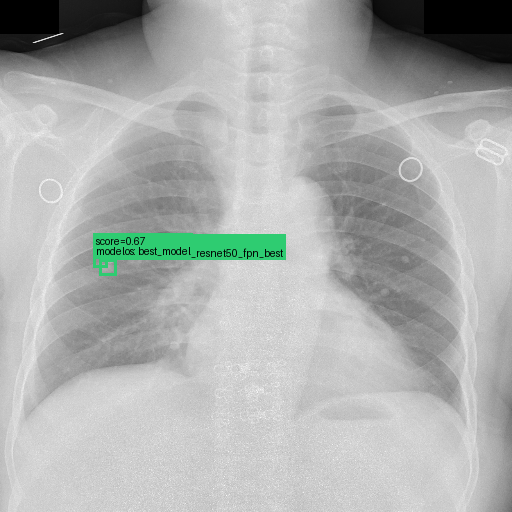
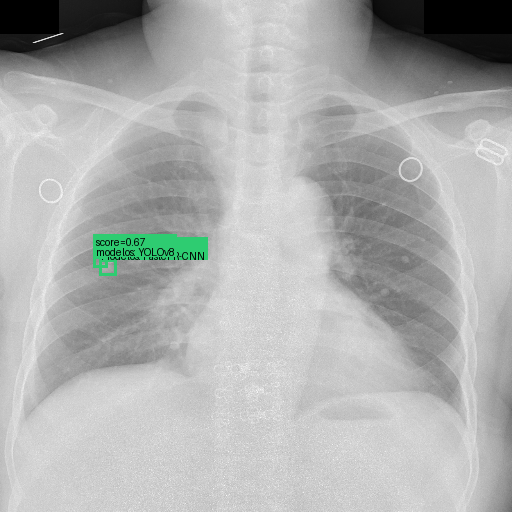
Fixing names in visualization folder

Changed region(s): [[0.1875, 0.4375, 0.5625, 0.5312]]

diff --git a/lung_nodule_agent/models.py b/lung_nodule_agent/models.py
@@ -38,12 +38,19 @@ class DetectionResult:
 class BaseModelAdapter:
     """Classe base para adaptadores de modelos de detecção."""
 
-    def __init__(self, model_path: str, confidence_threshold: float = 0.25, device: Optional[str] = None):
+    def __init__(
+        self,
+        model_path: str,
+        confidence_threshold: float = 0.25,
+        device: Optional[str] = None,
+        display_name: Optional[str] = None,
+    ):
         self.model_path = Path(model_path)
         if not self.model_path.exists():
             raise FileNotFoundError(f"Modelo não encontrado em {self.model_path}")
         self.confidence_threshold = confidence_threshold
         self.device = torch.device(device or ("cuda" if torch.cuda.is_available() else "cpu"))
+        self.display_name = display_name or self.model_path.stem
 
     def predict(self, image: Image.Image) -> DetectionResult:
         raise NotImplementedError
@@ -56,8 +63,19 @@ class BaseModelAdapter:
 class YOLOv8Adapter(BaseModelAdapter):
     """Adaptador para modelos YOLOv8 treinados com Ultralytics."""
 
-    def __init__(self, model_path: str, confidence_threshold: float = 0.25, device: Optional[str] = None):
-        super().__init__(model_path, confidence_threshold, device)
+    def __init__(
+        self,
+        model_path: str,
+        confidence_threshold: float = 0.25,
+        device: Optional[str] = None,
+        display_name: Optional[str] = None,
+    ):
+        super().__init__(
+            model_path,
+            confidence_threshold,
+            device,
+            display_name=display_name or "YOLOv8",
+        )
         if YOLO is None:
             raise ImportError(
                 "O pacote 'ultralytics' não está instalado. Instale-o para utilizar o adaptador YOLOv8."
@@ -72,13 +90,13 @@ class YOLOv8Adapter(BaseModelAdapter):
                 boxes=np.empty((0, 4), dtype=float),
                 scores=np.empty((0,), dtype=float),
                 labels=np.empty((0,), dtype=int),
-                model_name=self.model_path.stem,
+                model_name=self.display_name,
             )
         first = results[0]
         boxes = first.boxes.xyxy.cpu().numpy() if first.boxes is not None else np.empty((0, 4), dtype=float)
         scores = first.boxes.conf.cpu().numpy() if first.boxes is not None else np.empty((0,), dtype=float)
         labels = first.boxes.cls.cpu().numpy().astype(int) if first.boxes is not None else np.empty((0,), dtype=int)
-        return DetectionResult(boxes=boxes, scores=scores, labels=labels, model_name=self.model_path.stem)
+        return DetectionResult(boxes=boxes, scores=scores, labels=labels, model_name=self.display_name)
 
 
 def _instantiate_torchvision_model(model_fn, num_classes: Optional[int]):
@@ -108,8 +126,9 @@ class _TorchVisionDetectionAdapter(BaseModelAdapter):
         confidence_threshold: float = 0.25,
         device: Optional[str] = None,
         num_classes: Optional[int] = None,
+        display_name: Optional[str] = None,
     ):
-        super().__init__(model_path, confidence_threshold, device)
+        super().__init__(model_path, confidence_threshold, device, display_name=display_name)
         self.model = (
             model_ctor(num_classes=num_classes)
             if num_classes is not None
@@ -142,7 +161,7 @@ class _TorchVisionDetectionAdapter(BaseModelAdapter):
         boxes = output["boxes"].detach().cpu().numpy()[keep]
         scores = scores[keep]
         labels = output["labels"].detach().cpu().numpy()[keep].astype(int)
-        return DetectionResult(boxes=boxes, scores=scores, labels=labels, model_name=self.model_path.stem)
+        return DetectionResult(boxes=boxes, scores=scores, labels=labels, model_name=self.display_name)
 
 
 def _import_detr_resnet50():
@@ -175,7 +194,14 @@ def _import_detr_resnet50():
 class DETRAdapter(_TorchVisionDetectionAdapter):
     """Adaptador para modelos DETR fine-tunados."""
 
-    def __init__(self, model_path: str, confidence_threshold: float = 0.25, device: Optional[str] = None, num_classes: int = 2):
+    def __init__(
+        self,
+        model_path: str,
+        confidence_threshold: float = 0.25,
+        device: Optional[str] = None,
+        num_classes: int = 2,
+        display_name: Optional[str] = None,
+    ):
         detr_resnet50 = _import_detr_resnet50()
 
         super().__init__(
@@ -186,6 +212,7 @@ class DETRAdapter(_TorchVisionDetectionAdapter):
             confidence_threshold=confidence_threshold,
             device=device,
             num_classes=num_classes,
+            display_name=display_name or "DETR",
         )
 
 
@@ -199,6 +226,7 @@ class FasterRCNNAdapter(_TorchVisionDetectionAdapter):
         device: Optional[str] = None,
         num_classes: int = 2,
         backbone: str = "resnet50",
+        display_name: Optional[str] = None,
     ):
         from torchvision.models.detection import fasterrcnn_resnet50_fpn
 
@@ -212,4 +240,5 @@ class FasterRCNNAdapter(_TorchVisionDetectionAdapter):
             confidence_threshold=confidence_threshold,
             device=device,
             num_classes=num_classes,
+            display_name=display_name or "Faster R-CNN",
         )

diff --git a/meu_agente.py b/meu_agente.py
@@ -35,7 +35,7 @@ from lung_nodule_agent import (
 # CONFIGURAÇÕES
 # ---------------------------------------------------------------------------
 YOLOV8_WEIGHTS = Path("C:/Users/Mauricésar/Desktop/extracao/yolov8/best_model.pt")
-#DETR_WEIGHTS = Path("/caminho/para/seu_modelo_detr.pth")
+#DETR_WEIGHTS = Path("C:/Users/Mauricésar/Desktop/extracao/detr/best_model_detr.pt")
 FASTER_RCNN_WEIGHTS = Path("C:/Users/Mauricésar/Desktop/extracao/fasterrcnn/fasterrcnn/fasterrcnn_resnet50_fpn_best.pth")
 
 # Defina o caminho para uma imagem individual OU para um diretório de imagens.

diff --git a/lung_nodule_agent/decision_agent.py b/lung_nodule_agent/decision_agent.py
@@ -84,7 +84,7 @@ class LungNoduleDecisionAgent:
         model_results: Dict[str, DetectionResult] = {}
         for adapter in self.model_adapters:
             result = adapter.predict(image)
-            model_results[adapter.model_path.stem] = result
+            model_results[adapter.display_name] = result
         aggregated = self._aggregate(model_results)
         verdict, confidence, explanation = self._decide(aggregated)
         return AgentDecision(

diff --git a/README.md b/README.md
@@ -68,9 +68,9 @@ Além dos JSONs, é possível produzir imagens anotadas que servem como comprova
 formas principais de habilitar esse recurso:
 
 1. **Na linha de comando**, informe `--visualizations-dir /caminho/saidas`. O script criará automaticamente
-   subdiretórios com o nome de cada modelo (`<nome_do_modelo>/`) e outro chamado `fusion/`. Cada subpasta receberá
-   uma cópia da radiografia com as caixas previstas pelo respectivo modelo; a pasta `fusion/` contém a imagem com
-   todas as detecções agregadas pelo agente.
+   subdiretórios com o nome de cada modelo (por padrão `YOLOv8/`, `DETR/` e `Faster R-CNN/`) e outro chamado `fusion/`.
+   Cada subpasta receberá uma cópia da radiografia com as caixas previstas pelo respectivo modelo; a pasta `fusion/`
+   contém a imagem com todas as detecções agregadas pelo agente.
 
    ```bash
    python run_agent.py \
